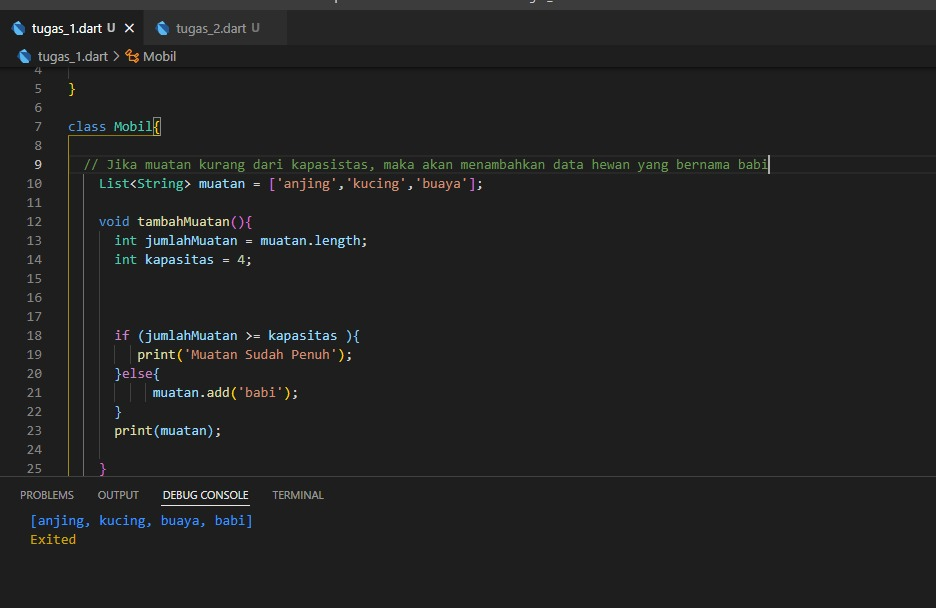
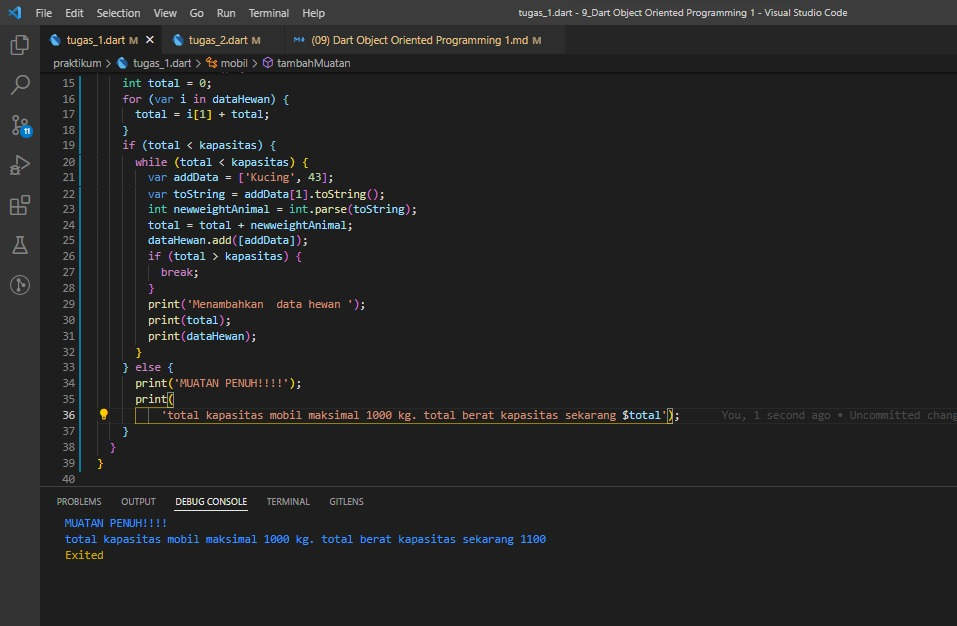
update section 9

diff --git a/9_Dart Object Oriented Programming 1/praktikum/tugas_2.dart b/9_Dart Object Oriented Programming 1/praktikum/tugas_2.dart
@@ -1,43 +1,72 @@
-class Hewan {
-  List<int> berat = [20, 30, 40];
+class hewan {
+  String nameAnimal;
+  int weightAnimal;
+
+  hewan.babi(this.nameAnimal, this.weightAnimal);
 }
 
-class Mobil {
-  // List yang berisi nama-nama hewan
-  List<String> muatan = [
-    'anjing',
-    'kucing',
-    'buaya',
-    'ayam',
-  ];
+class mobil {
+  var dataHewan = [];
+  int kapasitas;
 
-  /*Function tambahan yang dimana isinya adalah kondisi untung 
-  menghitung muatan, Apakah melebihi kapasitas atau tidak*/
+  mobil(this.dataHewan, this.kapasitas);
+
   void tambahMuatan() {
-    int jumlahMuatan = muatan.length;
-    int kapasitas = 4;
-
-    /* 
-    
-    Kondisi apabial muatan sama dengan atau lebih dari 
-    kapasitans maka muatan sudah penuh kalo tidak muatan akan ditamabah
-
-    */
-    if (jumlahMuatan >= kapasitas) {
-      print('Muatan Sudah Penuh');
+    if (this.totalMuatan() < kapasitas) {
+      while (this.totalMuatan() < kapasitas) {
+        var addData = ['Kucing', 50];
+        var toString = addData[1].toString();
+        int newweightAnimal = int.parse(toString);
+        int total = this.totalMuatan() + newweightAnimal;
+        print('Menambahkan  data hewan ');
+        dataHewan.add(addData);
+        if (this.totalMuatan() > kapasitas) {
+          break;
+        }
+        print(dataHewan);
+        print(total);
+      }
     } else {
-      muatan.add('babi');
+      print('MUATAN PENUH!!!!');
+      print(
+          'total kapasitas mobil maksimal 1000 kg. total berat kapasitas sekarang ${this.totalMuatan()}');
     }
-    print(muatan);
   }
 
-  void totalMuatan() {
-    print('total muatan mobil adalah ${muatan.length}');
+  int totalMuatan() {
+    int total = 0;
+    for (var i in dataHewan) {
+      total = i[1] + total;
+    }
+    return total;
   }
+}
+
+void test() {
+  var hewan1 = hewan.babi('ayam', 500);
+  var hewan2 = hewan.babi('babi', 300);
+  var hewan3 = hewan.babi('anjing', 300);
+
+  var mobilUtama = mobil([
+    [
+      hewan1.nameAnimal,
+      hewan1.weightAnimal,
+    ],
+    [
+      hewan2.nameAnimal,
+      hewan2.weightAnimal,
+    ],
+    [
+      hewan3.nameAnimal,
+      hewan3.weightAnimal,
+    ],
+  ], 1000);
+
+  mobilUtama.tambahMuatan();
+
+  print('total muatan dari mobil ini adalah ${mobilUtama.totalMuatan()} KG');
 }
 
 void main() {
-  var mobil = Mobil();
-  mobil.tambahMuatan();
-  mobil.totalMuatan();
+  test();
 }

diff --git a/9_Dart Object Oriented Programming 1/praktikum/tugas_1.dart b/9_Dart Object Oriented Programming 1/praktikum/tugas_1.dart
@@ -1,33 +1,66 @@
-class Hewan {
-  List<int> berat = [20, 30, 40];
+class hewan {
+  String nameAnimal;
+  int weightAnimal;
+
+  hewan.babi(this.nameAnimal, this.weightAnimal);
 }
 
-class Mobil {
-  // Jika muatan lebih dar atau sama dengan kapasistas, maka akan menampilkan pesan "Muatan Sudah Penuh"
-  List<String> muatan = ['anjing', 'kucing', 'buaya', 'ayam'];
+class mobil {
+  var dataHewan = [];
+  int kapasitas;
 
-  /*Function tambahan yang dimana isinya adalah kondisi untung 
-  menghitung muatan, Apakah melebihi kapasitas atau tidak*/
+  mobil(this.dataHewan, this.kapasitas);
+
   void tambahMuatan() {
-    int jumlahMuatan = muatan.length;
-    int kapasitas = 4;
-
-    /* 
-    
-    Kondisi apabial muatan sama dengan atau lebih dari 
-    kapasitans maka muatan sudah penuh kalo tidak muatan akan ditamabah
-
-    */
-    if (jumlahMuatan >= kapasitas) {
-      print('Muatan Sudah Penuh');
-    } else {
-      muatan.add('babi');
+    int total = 0;
+    for (var i in dataHewan) {
+      total = i[1] + total;
     }
-    print(muatan);
+    if (total < kapasitas) {
+      while (total < kapasitas) {
+        var addData = ['Kucing', 43];
+        var toString = addData[1].toString();
+        int newweightAnimal = int.parse(toString);
+        total = total + newweightAnimal;
+        dataHewan.add([addData]);
+        if (total > kapasitas) {
+          break;
+        }
+        print('Menambahkan  data hewan ');
+        print(total);
+        print(dataHewan);
+      }
+    } else {
+      print('MUATAN PENUH!!!!');
+      print(
+          'total kapasitas mobil maksimal 1000 kg. total berat kapasitas sekarang $total');
+    }
   }
 }
 
+void test() {
+  var hewan1 = hewan.babi('ayam', 500);
+  var hewan2 = hewan.babi('babi', 300);
+  var hewan3 = hewan.babi('anjing', 300);
+
+  var mobilUtama = mobil([
+    [
+      hewan1.nameAnimal,
+      hewan1.weightAnimal,
+    ],
+    [
+      hewan2.nameAnimal,
+      hewan2.weightAnimal,
+    ],
+    [
+      hewan3.nameAnimal,
+      hewan3.weightAnimal,
+    ],
+  ], 1000);
+
+  mobilUtama.tambahMuatan();
+}
+
 void main() {
-  var mobil = Mobil();
-  mobil.tambahMuatan();
+  test();
 }

diff --git a/9_Dart Object Oriented Programming 1/(09) Dart Object Oriented Programming 1.md b/9_Dart Object Oriented Programming 1/(09) Dart Object Oriented Programming 1.md
@@ -63,8 +63,6 @@ Berikut kode tugas kedua
 
 output:
 
-![Tugas1_Class_Hewan](./screenshots/Tugas1_Class_Hewan.jpeg)
-
 Mobil kurang dari kapasitas
 ![Tugas1_Class_Mobil_Kurang_Dari_Kapasistas](./screenshots/Tugas1_Class_Mobil_Kurang_Dari_Kapasistas.jpeg)
 
